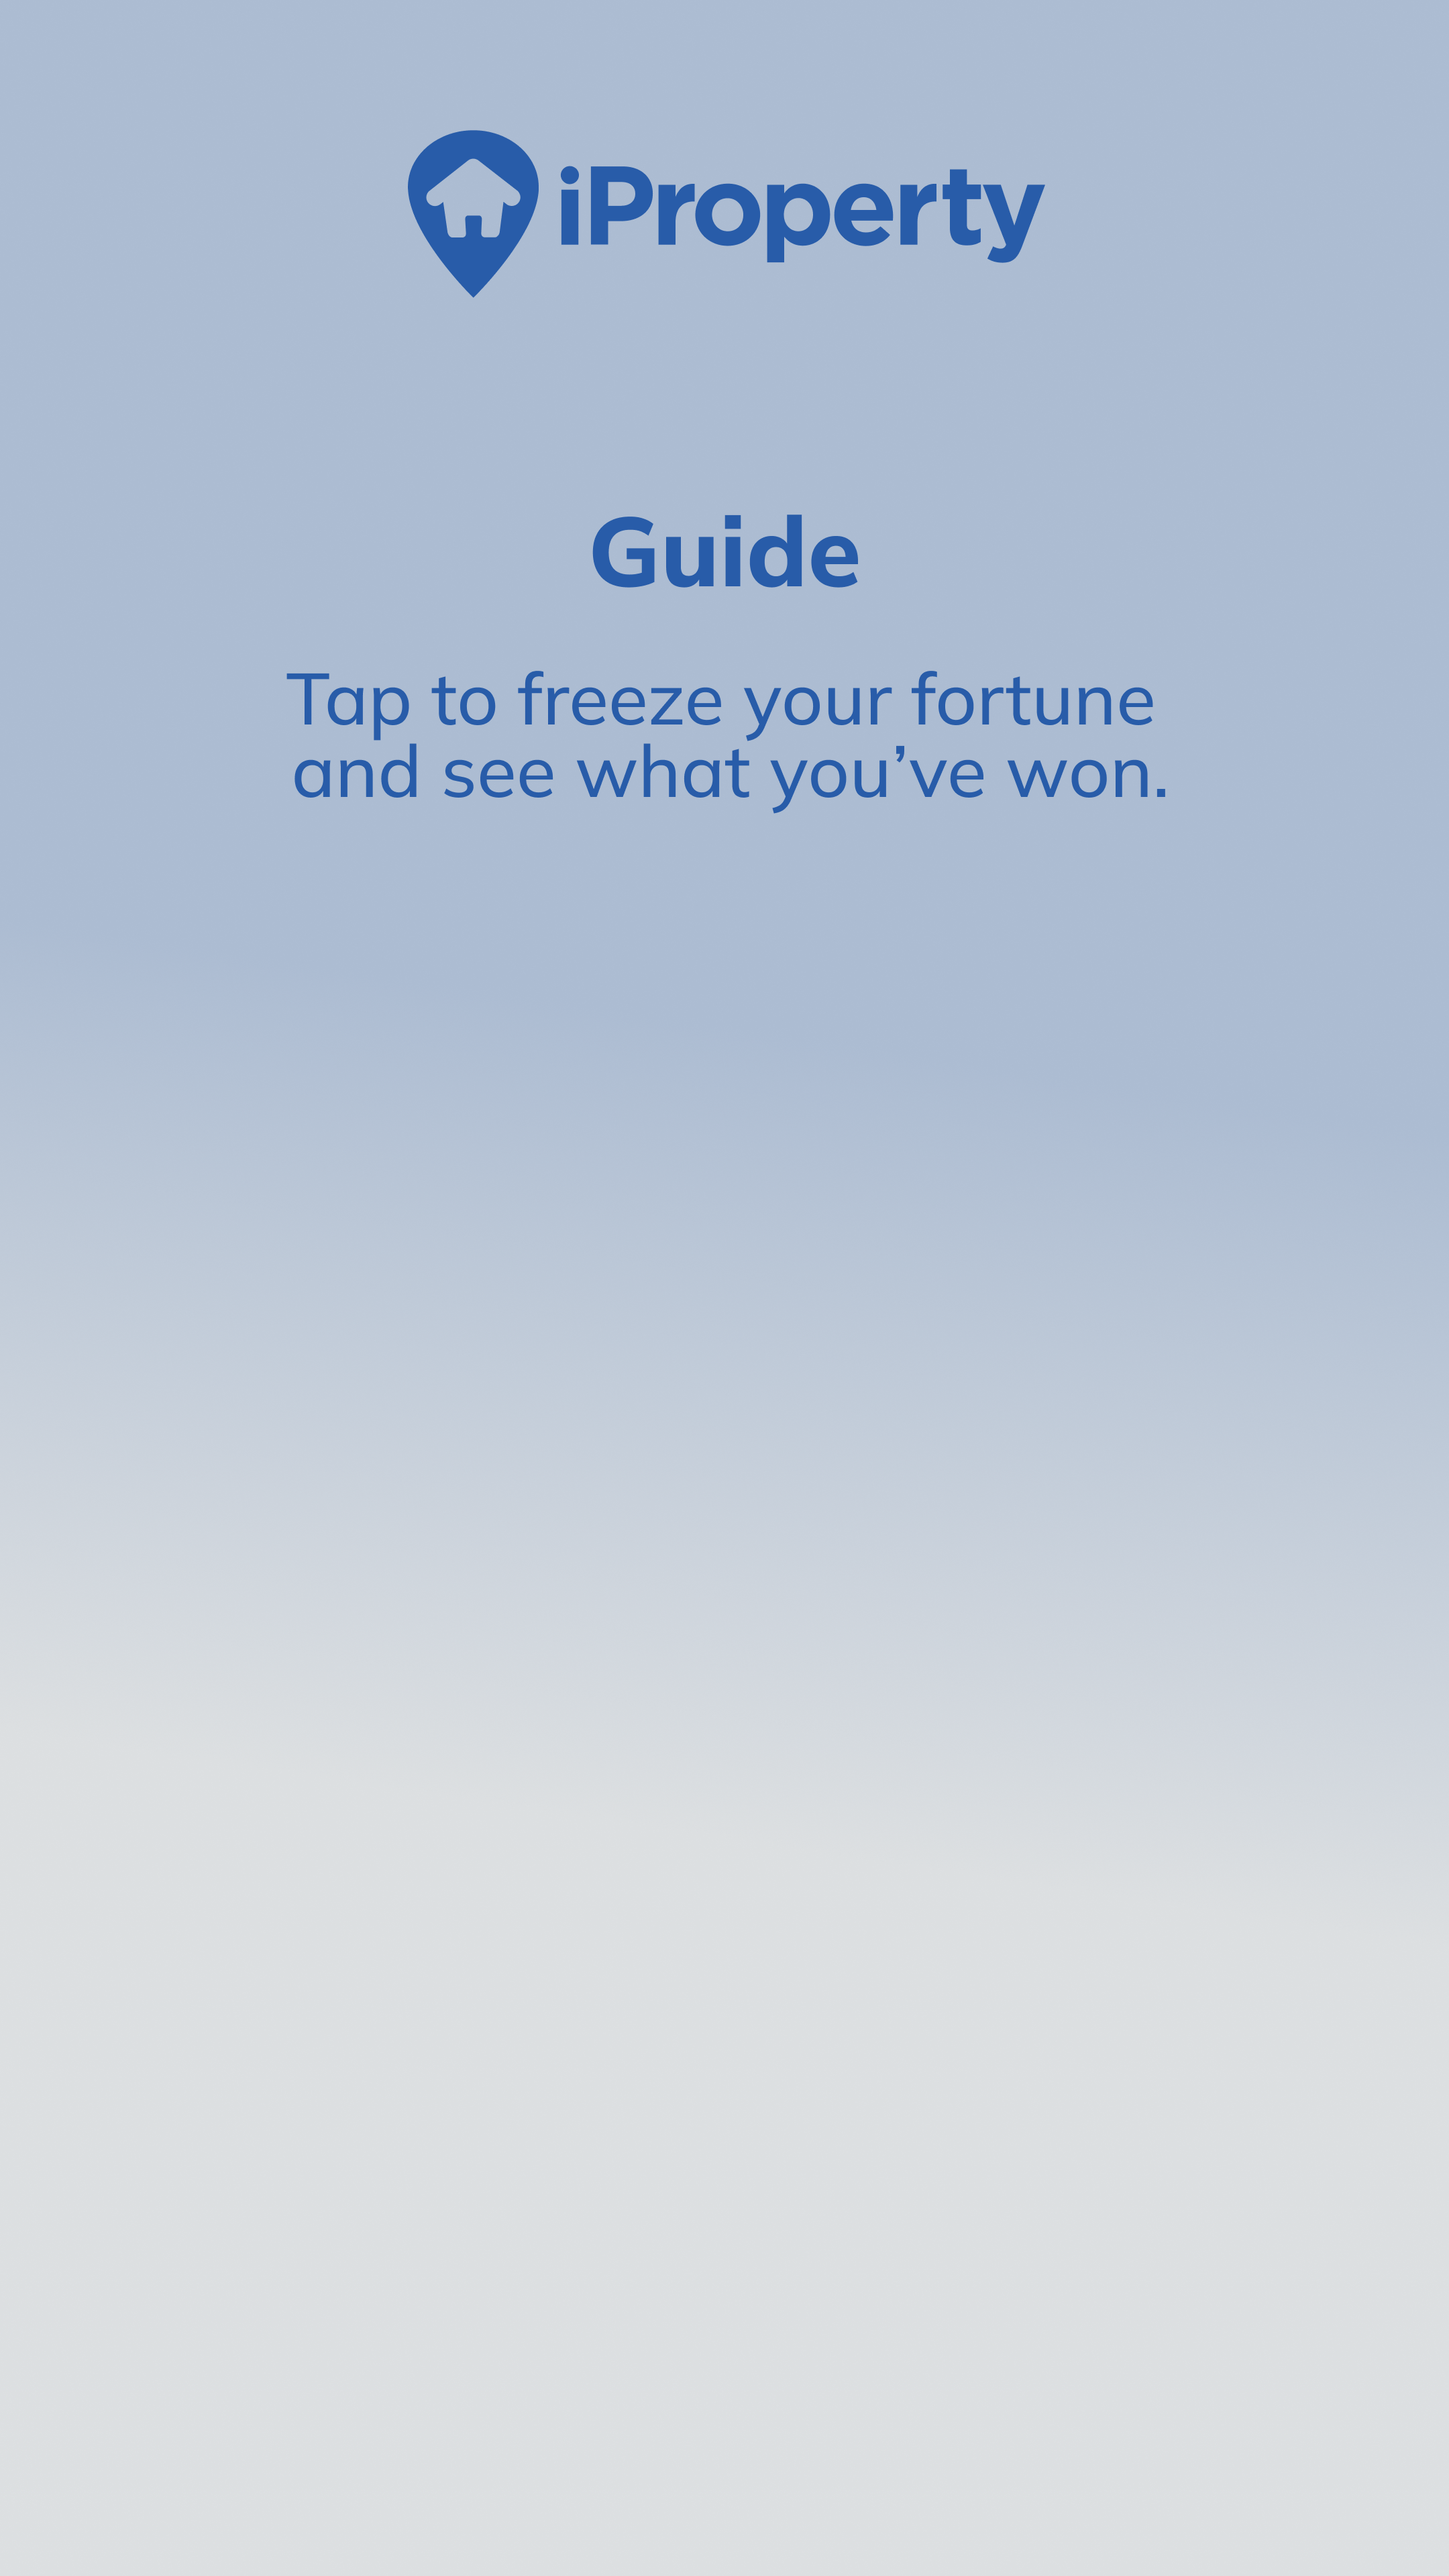
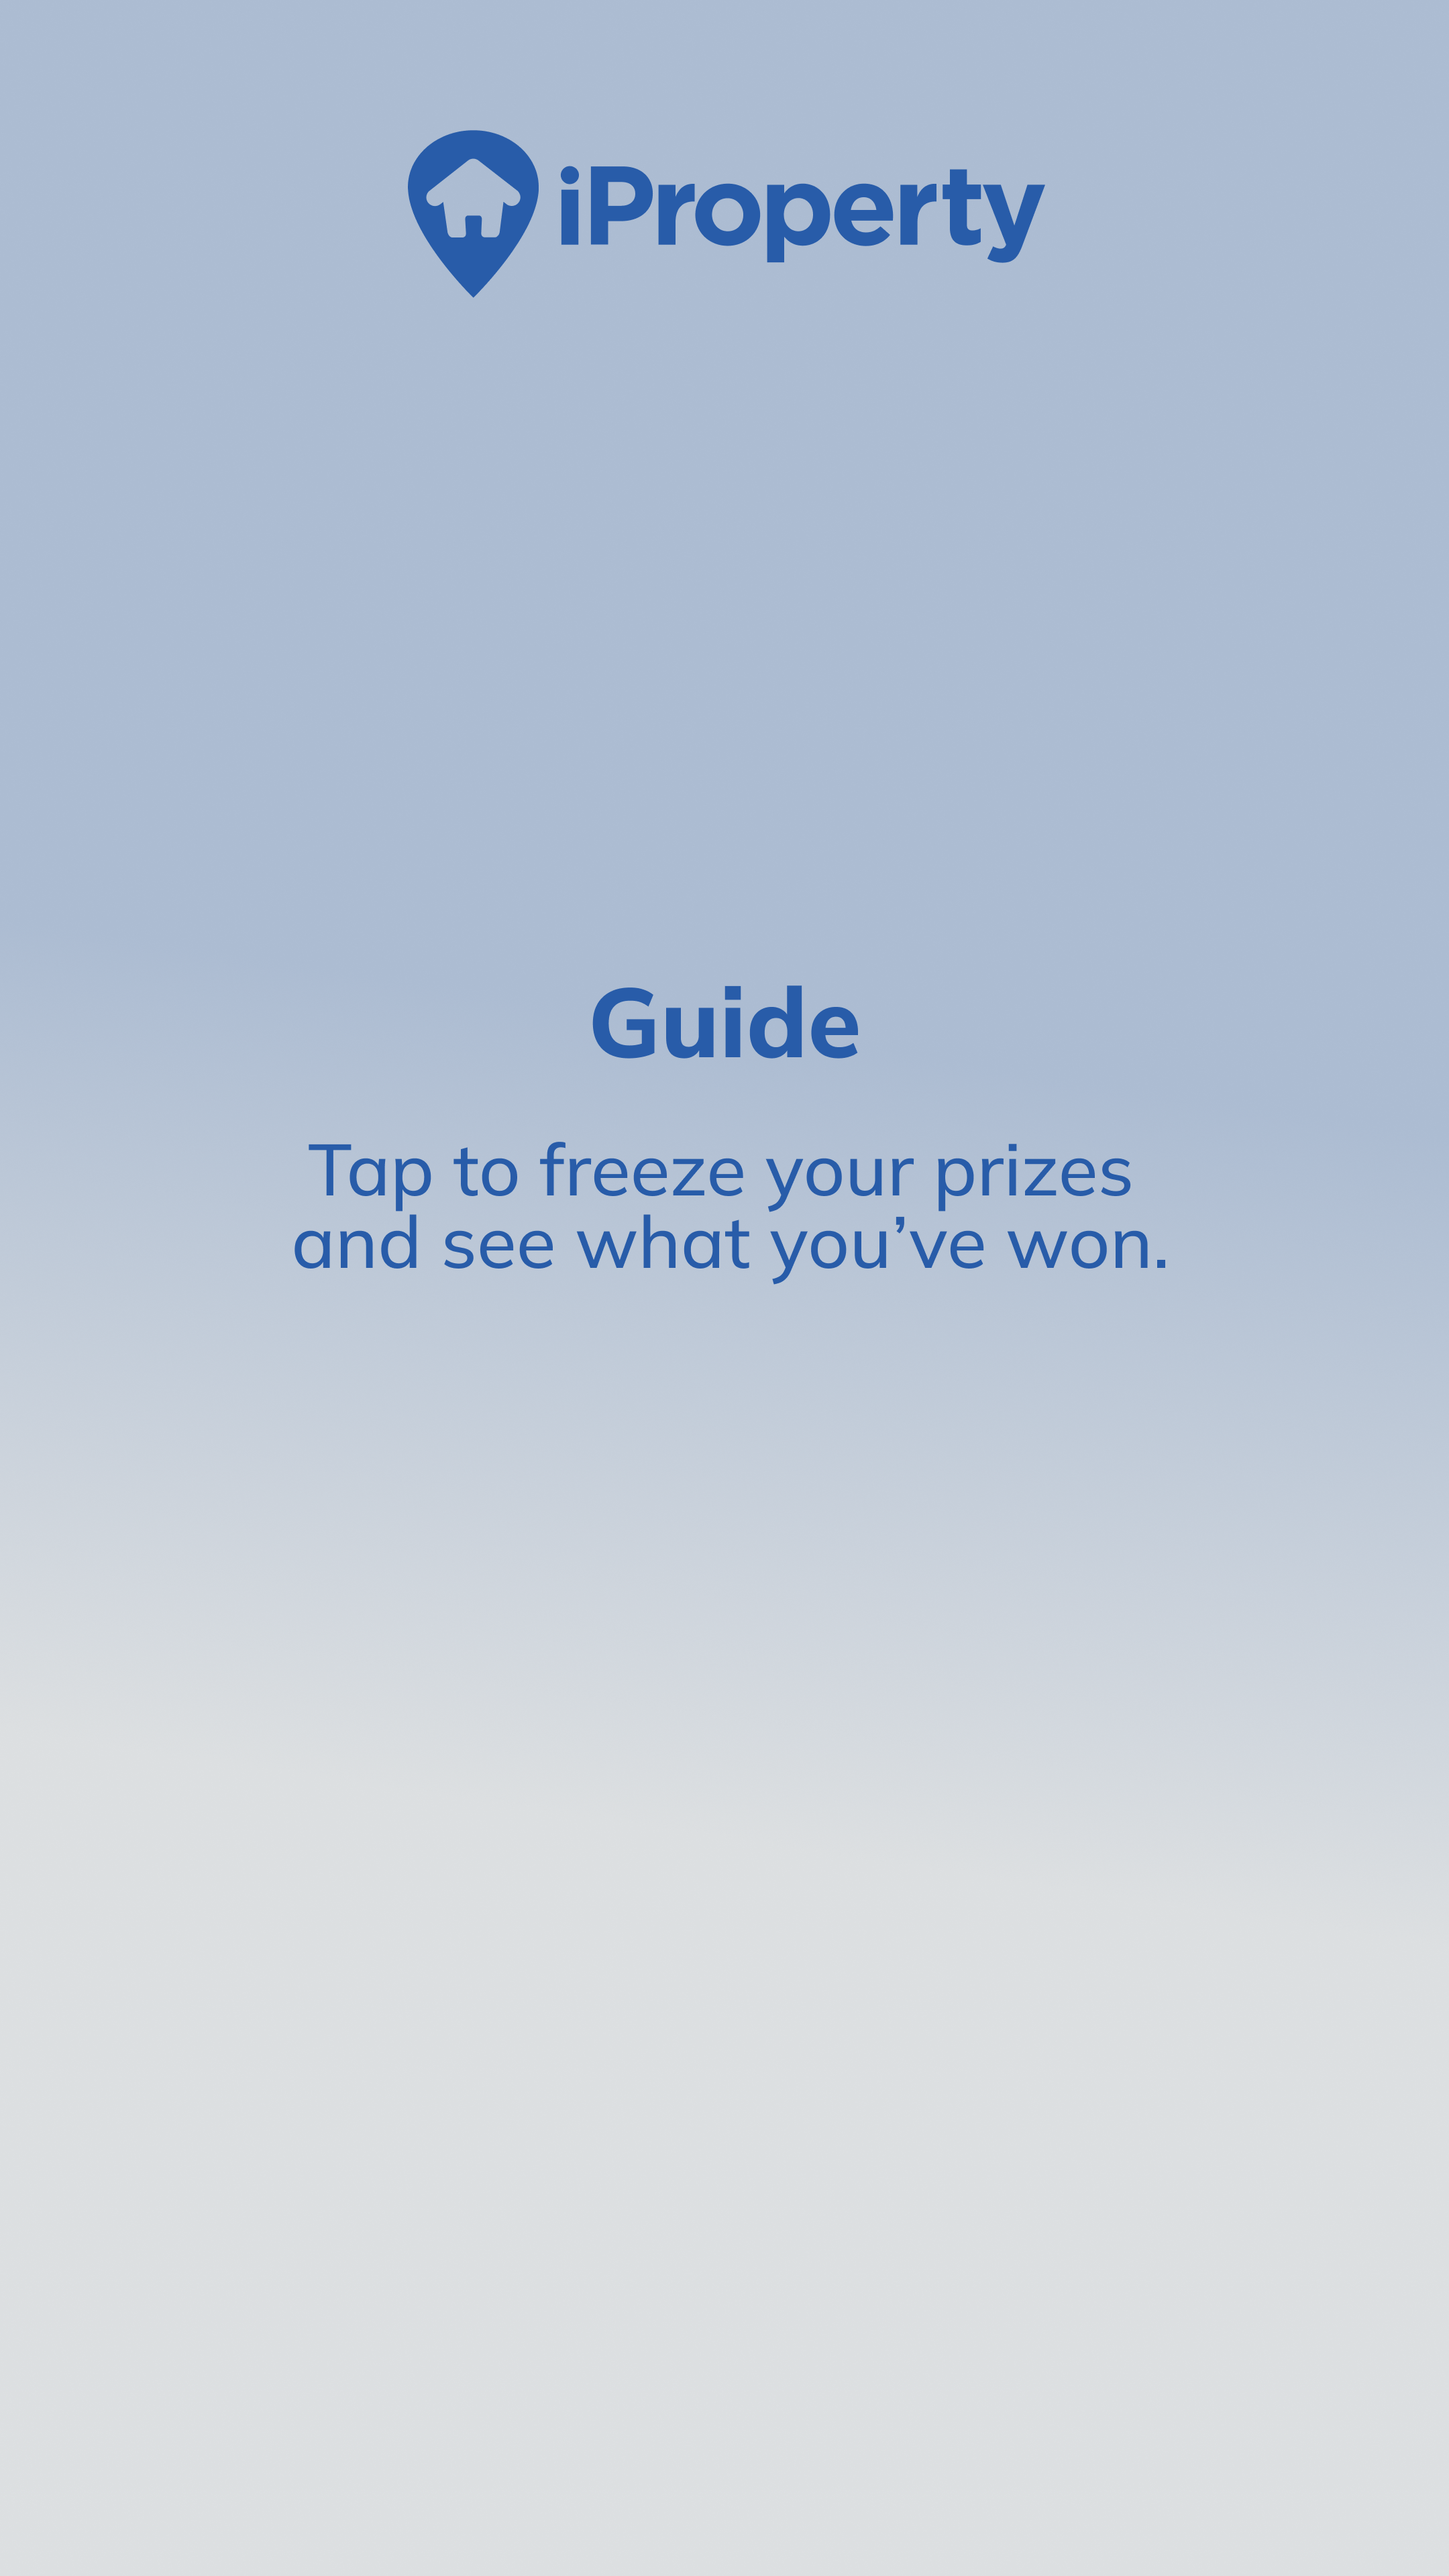
Enhance confetti animation, update button placements, and adjust layout for improved visual appeal

Changed region(s): [[0.1861, 0.1875, 0.8065, 0.3125], [0.2171, 0.375, 0.8065, 0.5]]

diff --git a/index.html b/index.html
@@ -18,12 +18,12 @@
 
   <!-- ░░ SCREEN 2 – GUIDE ░░ -->
   <section id="screen-guide" class="screen">
+    <button class="btn btn--blue" id="btn-ready">I'M READY</button>
     <div class="hand-icon">
       <div class="hand-circle">
         <span class="hand-emoji">👆</span>
       </div>
     </div>
-    <button class="btn btn--blue" id="btn-ready">I'M READY</button>
   </section>
 
   <!-- ░░ SCREEN 3 – SHUFFLE ░░ -->
@@ -46,16 +46,17 @@
   <section id="screen-result" class="screen">
     <div id="confetti-container" class="confetti-container"></div>
     <img class="screen-header-logo" src="images/logo_dark.webp" alt="iProperty" onerror="this.style.display='none'" />
+    <button class="btn btn--blue btn--wide" id="btn-continue">CONTINUE</button>
     <div class="result-card" id="result-card">
       <img id="result-img" src="" alt="" class="result-prize-img" />
       <p id="result-name" class="result-prize-name"></p>
     </div>
-    <button class="btn btn--blue btn--wide" id="btn-continue">CONTINUE</button>
   </section>
 
   <!-- ░░ SCREEN 5 – QR ░░ -->
   <section id="screen-qr" class="screen">
     <img class="screen-header-logo" src="images/logo_dark.webp" alt="iProperty" onerror="this.style.display='none'" />
+    <button class="btn btn--blue btn--wide" id="btn-finish">FINISH</button>
     <div class="qr-card">
       <p class="qr-instruction">Scan this QR<br/>to claim your prize.</p>
       <div class="qr-box">
@@ -64,7 +65,6 @@
       </div>
       <button class="btn btn--blue btn--sm" id="btn-redraw">REDRAW</button>
     </div>
-    <button class="btn btn--blue btn--wide" id="btn-finish">FINISH</button>
   </section>
 
   <!-- ░░ COUNTDOWN OVERLAY ░░ -->

diff --git a/style.css b/style.css
@@ -84,7 +84,7 @@ html, body {
   padding: 0;
   align-items: center;
   justify-content: flex-end;
-  padding-bottom: clamp(40px, 8vh, 72px);
+  padding-bottom: clamp(360px, calc(63vh + 160px), 1330px);
   background: url('images/start.webp') center center / cover no-repeat;
 }
 
@@ -151,20 +151,20 @@ html, body {
 #screen-guide {
   padding: 0;
   align-items: center;
-  justify-content: center;
-  gap: 120px;
+  justify-content: flex-start;
   background: url('images/guide.webp') center center / cover no-repeat;
 }
 
 #btn-ready {
   position: static;
   transform: none;
-  margin-top: 30px;
+  margin-top: clamp(120px, 22vh, 440px);
 }
 
 #screen-guide .hand-icon {
   position: static;
   flex: unset;
+  margin-top: clamp(150px, 28vh, 570px);
 }
 
 .hand-icon {
@@ -210,7 +210,7 @@ html, body {
 ============================================================ */
 .btn {
   display: inline-block;
-  padding: 20px 56px;
+  padding: 20px 146px;
   border: none;
   border-radius: 50px;
   font-size: 18px;
@@ -430,8 +430,11 @@ html, body {
 }
 
 @keyframes confettiFall {
-  0%   { transform: translateY(0)     rotate(0deg);   opacity: 1; }
-  100% { transform: translateY(110vh) rotate(720deg); opacity: 0; }
+  0%   { transform: translateY(0)      translateX(0)     rotate(0deg);   opacity: 1; }
+  25%  { transform: translateY(25vh)   translateX(15px)  rotate(180deg); opacity: 1; }
+  50%  { transform: translateY(50vh)   translateX(-10px) rotate(360deg); opacity: 1; }
+  75%  { transform: translateY(75vh)   translateX(12px)  rotate(540deg); opacity: 0.8; }
+  100% { transform: translateY(110vh)  translateX(-8px)  rotate(720deg); opacity: 0; }
 }
 
 .result-card {

diff --git a/app.js b/app.js
@@ -345,17 +345,17 @@ function spawnConfetti() {
     piece.style.cssText = `
       left: ${Math.random() * 100}%;
       background: ${colors[Math.floor(Math.random() * colors.length)]};
-      width: ${5 + Math.random() * 7}px;
-      height: ${5 + Math.random() * 7}px;
-      border-radius: ${Math.random() > 0.5 ? '50%' : '2px'};
-      animation-duration: ${0.8 + Math.random() * 1.4}s;
-      animation-delay: ${Math.random() * 0.6}s;
+      width: ${6 + Math.random() * 8}px;
+      height: ${12 + Math.random() * 8}px;
+      border-radius: 2px;
+      animation-duration: ${3 + Math.random() * 2}s;
+      animation-delay: ${Math.random() * 1.5}s;
     `;
     container.appendChild(piece);
   }
 
   // Clean up after animations
-  setTimeout(() => { container.innerHTML = ''; }, 3000);
+  setTimeout(() => { container.innerHTML = ''; }, 7000);
 }
 
 // ─────────────────────────────────────────────
